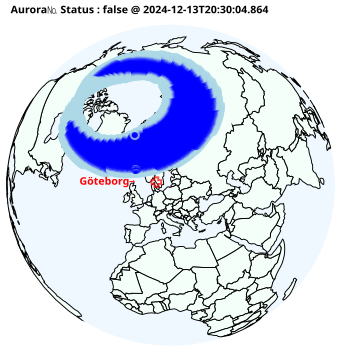
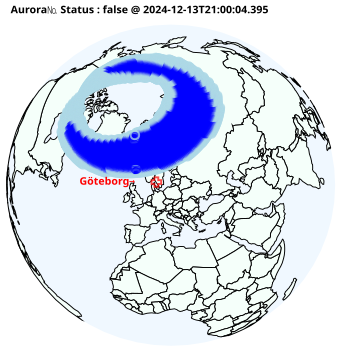
20241213210017 added aur.html

diff --git a/aur.html b/aur.html
@@ -7,6 +7,6 @@
 <body>
     <h1>Aurora Watch</h1>
     <img src="a.png" alt="Aurora Image" style="width:100%;max-width:600px;">
-    <p>Aurora Level 🌌= (0.5) was observed. (2024-12-13T20:30:04.864)</p>
+    <p>Aurora Level 🌌= (0.5) was observed. (2024-12-13T21:00:04.395)</p>
 </body>
 </html>
